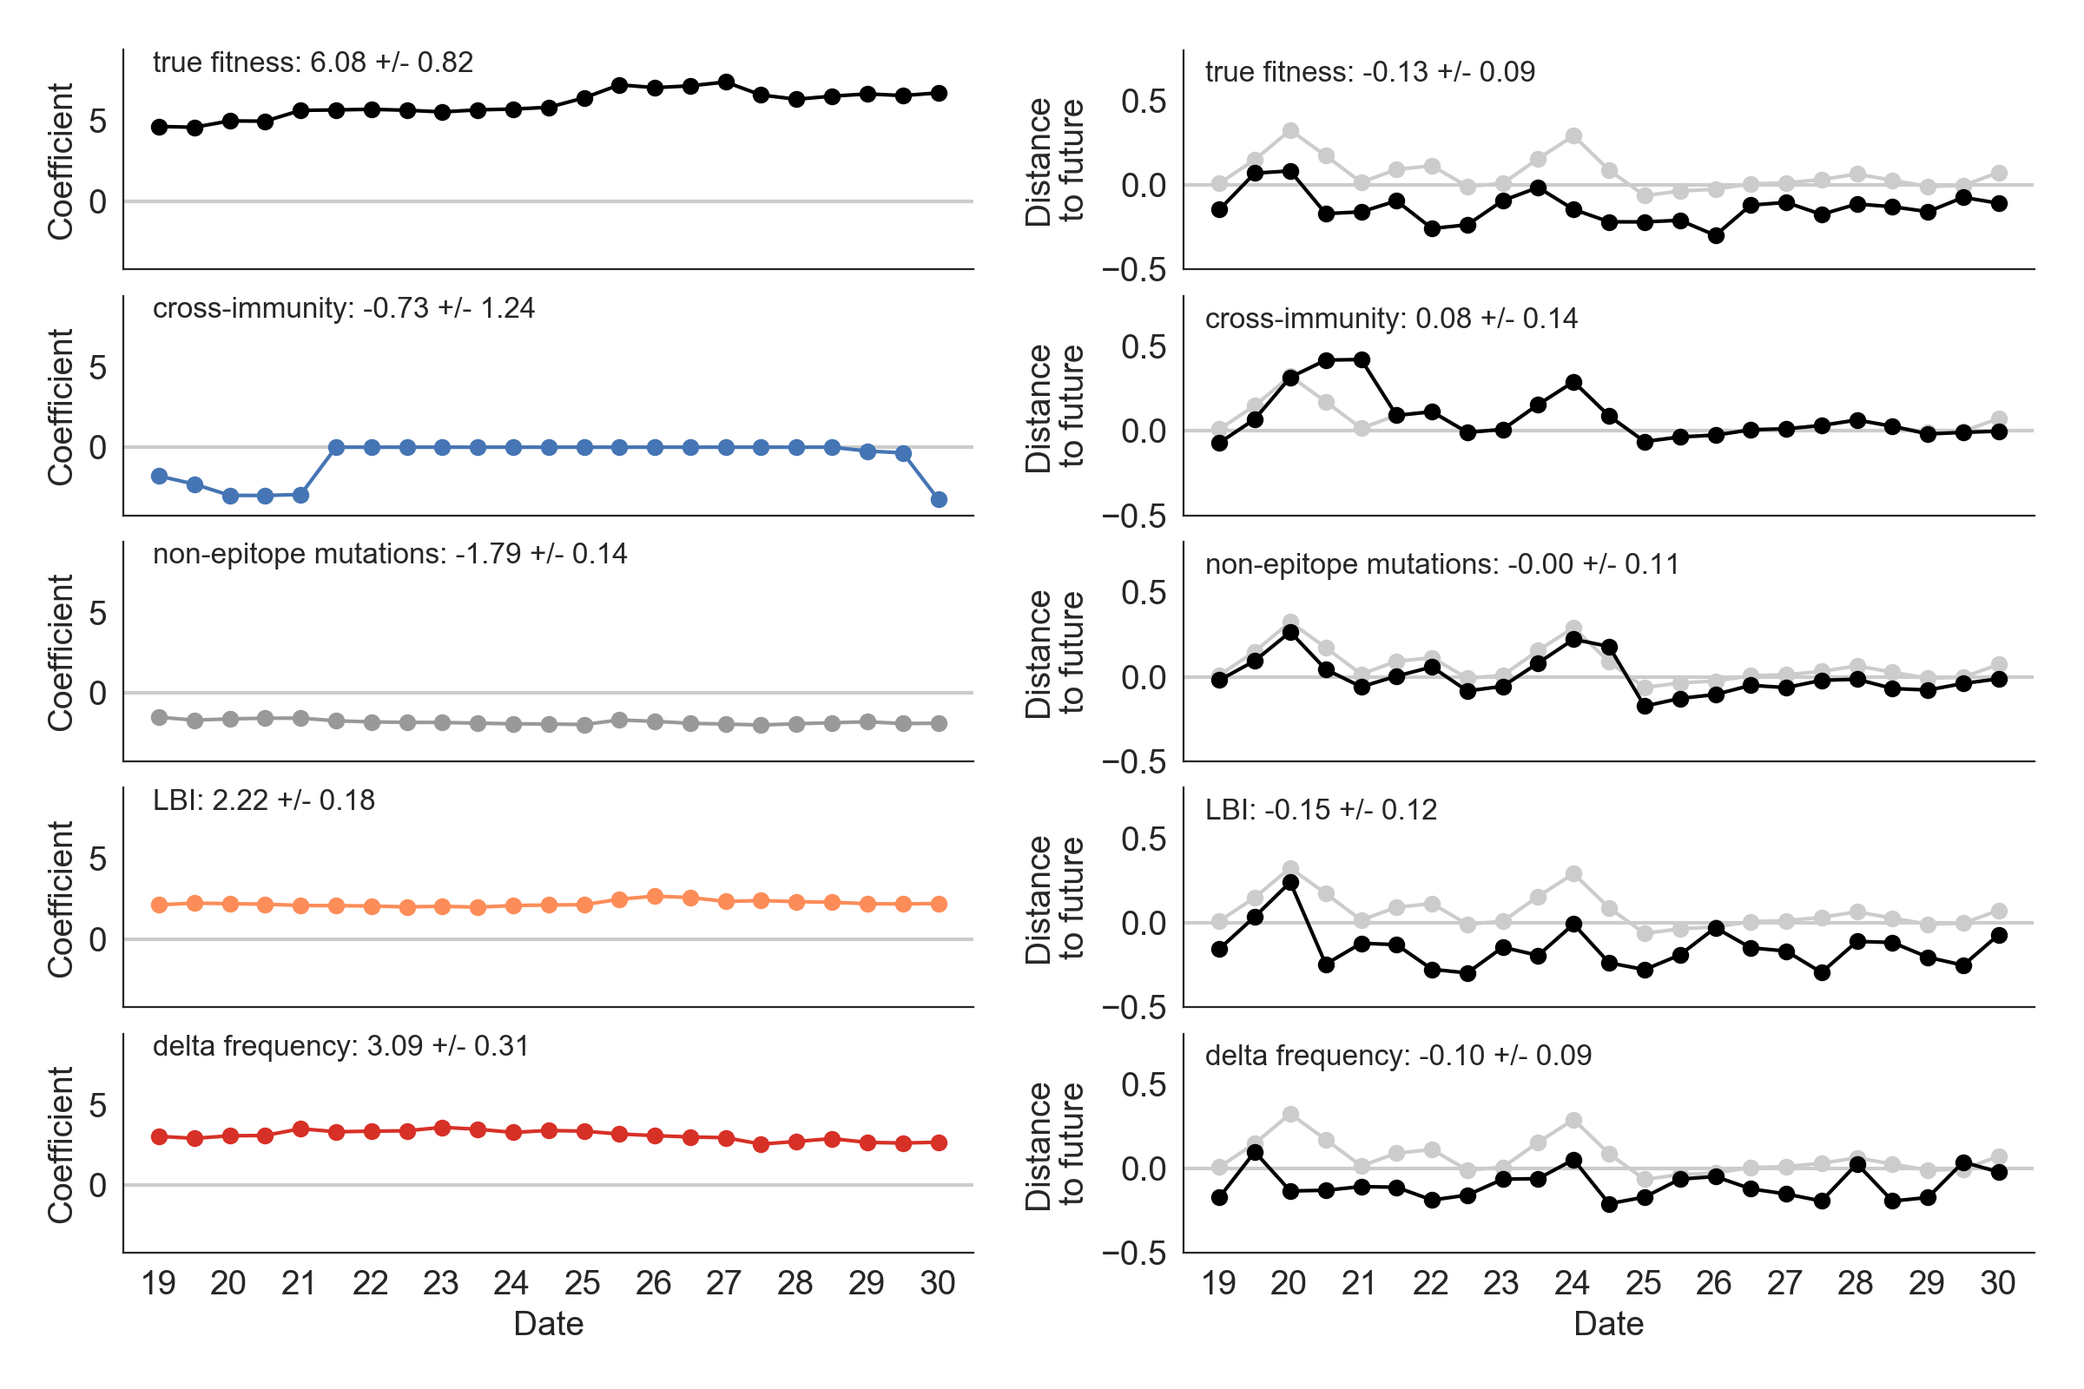
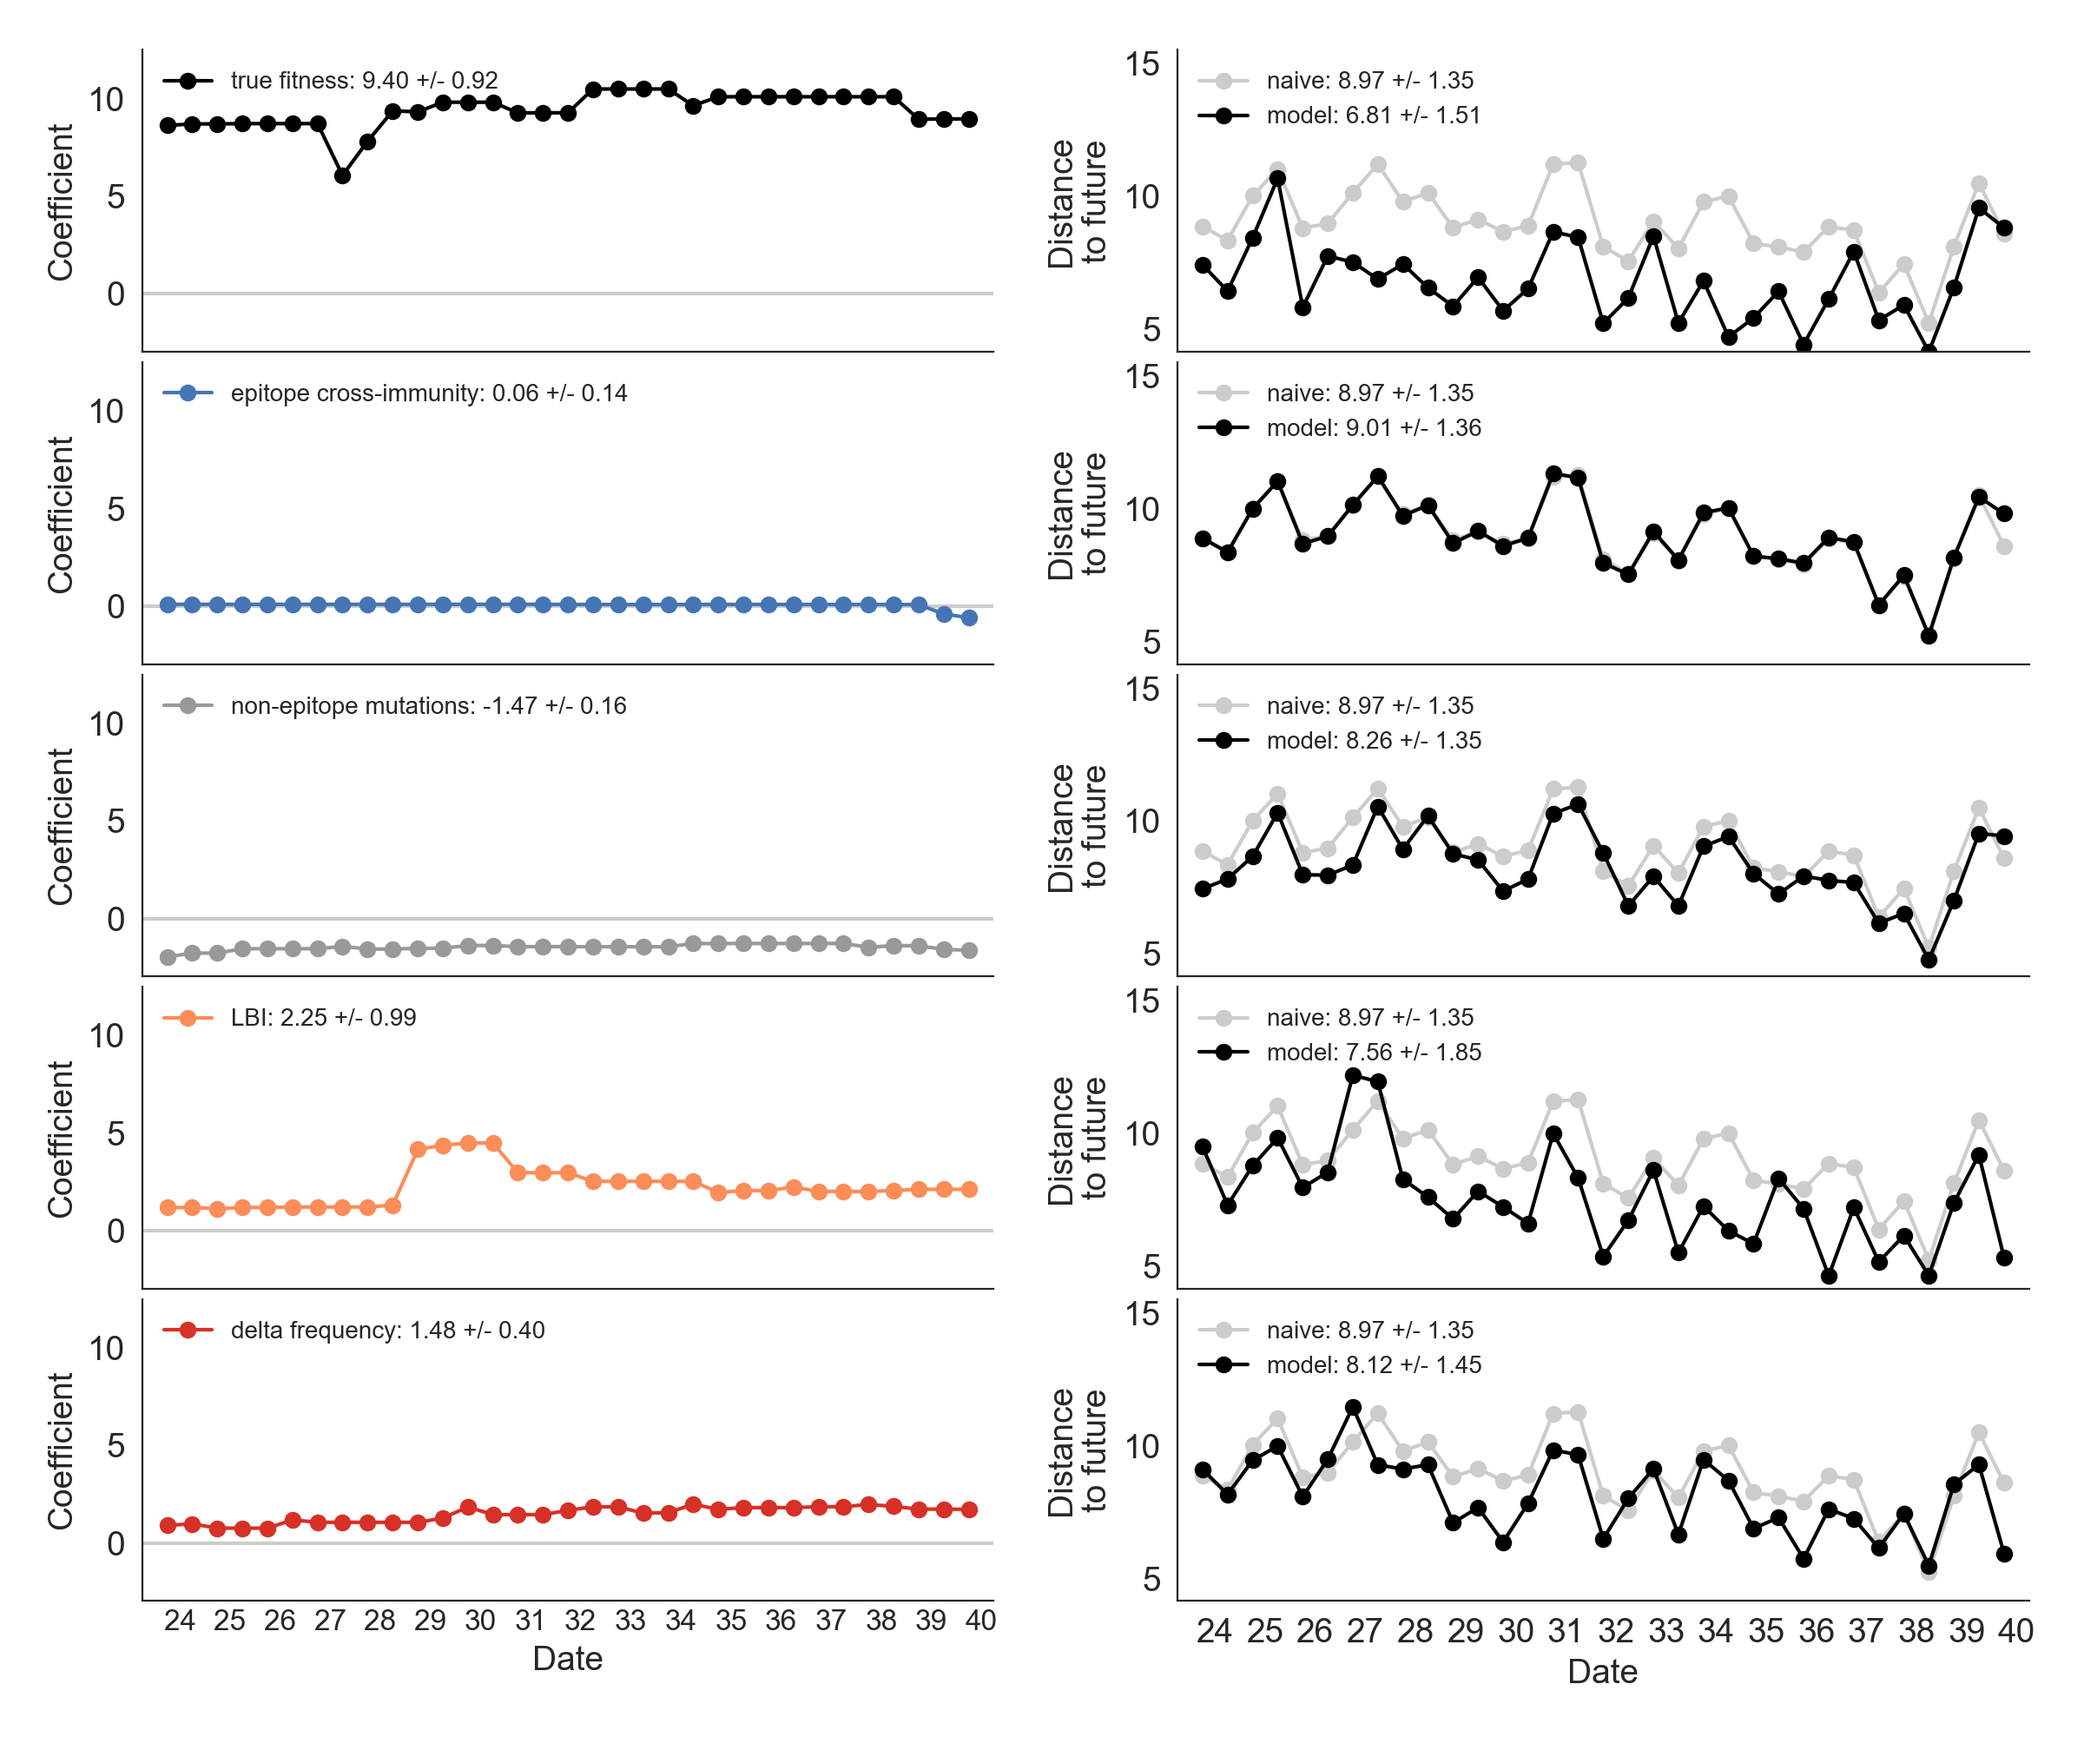
Update figures/table for dense simulated populations

diff --git a/manuscript/tables/simulated_model_selection.tex b/manuscript/tables/simulated_model_selection.tex
@@ -1,15 +1,14 @@
-\begin{tabular}{lrrrr}
+\begin{tabular}{lrrr}
 \toprule
-{} & \multicolumn{2}{l}{model\_minus\_naive} & \multicolumn{2}{l}{model\_better\_than\_naive} \\
-{} &               sum &  mean &                     sum & mean \\
-\textbf{predictors        } &                   &       &                         &      \\
+{} & model\_minus\_naive & \multicolumn{2}{l}{model\_better\_than\_naive} \\
+{} &              mean &                     sum & mean \\
+model                  &                   &                         &      \\
 \midrule
-\textbf{lbi-ne\_star       } &            -37.62 & -1.14 &                    26.0 & 0.79 \\
-\textbf{normalized\_fitness} &            -32.84 & -1.00 &                    32.0 & 0.97 \\
-\textbf{lbi               } &            -29.35 & -0.89 &                    25.0 & 0.76 \\
-\textbf{ne\_star           } &            -19.35 & -0.59 &                    27.0 & 0.82 \\
-\textbf{delta\_frequency   } &            -11.07 & -0.34 &                    21.0 & 0.64 \\
-\textbf{naive             } &              0.00 &  0.00 &                     0.0 & 0.00 \\
-\textbf{ep\_x              } &              0.15 &  0.00 &                    13.0 & 0.39 \\
+true fitness           &             -2.17 &                      32 & 0.97 \\
+LBI                    &             -1.41 &                      29 & 0.88 \\
+delta frequency        &             -0.85 &                      26 & 0.79 \\
+non-epitope mutations  &             -0.71 &                      29 & 0.88 \\
+naive                  &              0.00 &                       0 & 0.00 \\
+epitope cross-immunity &              0.03 &                      14 & 0.42 \\
 \bottomrule
 \end{tabular}
